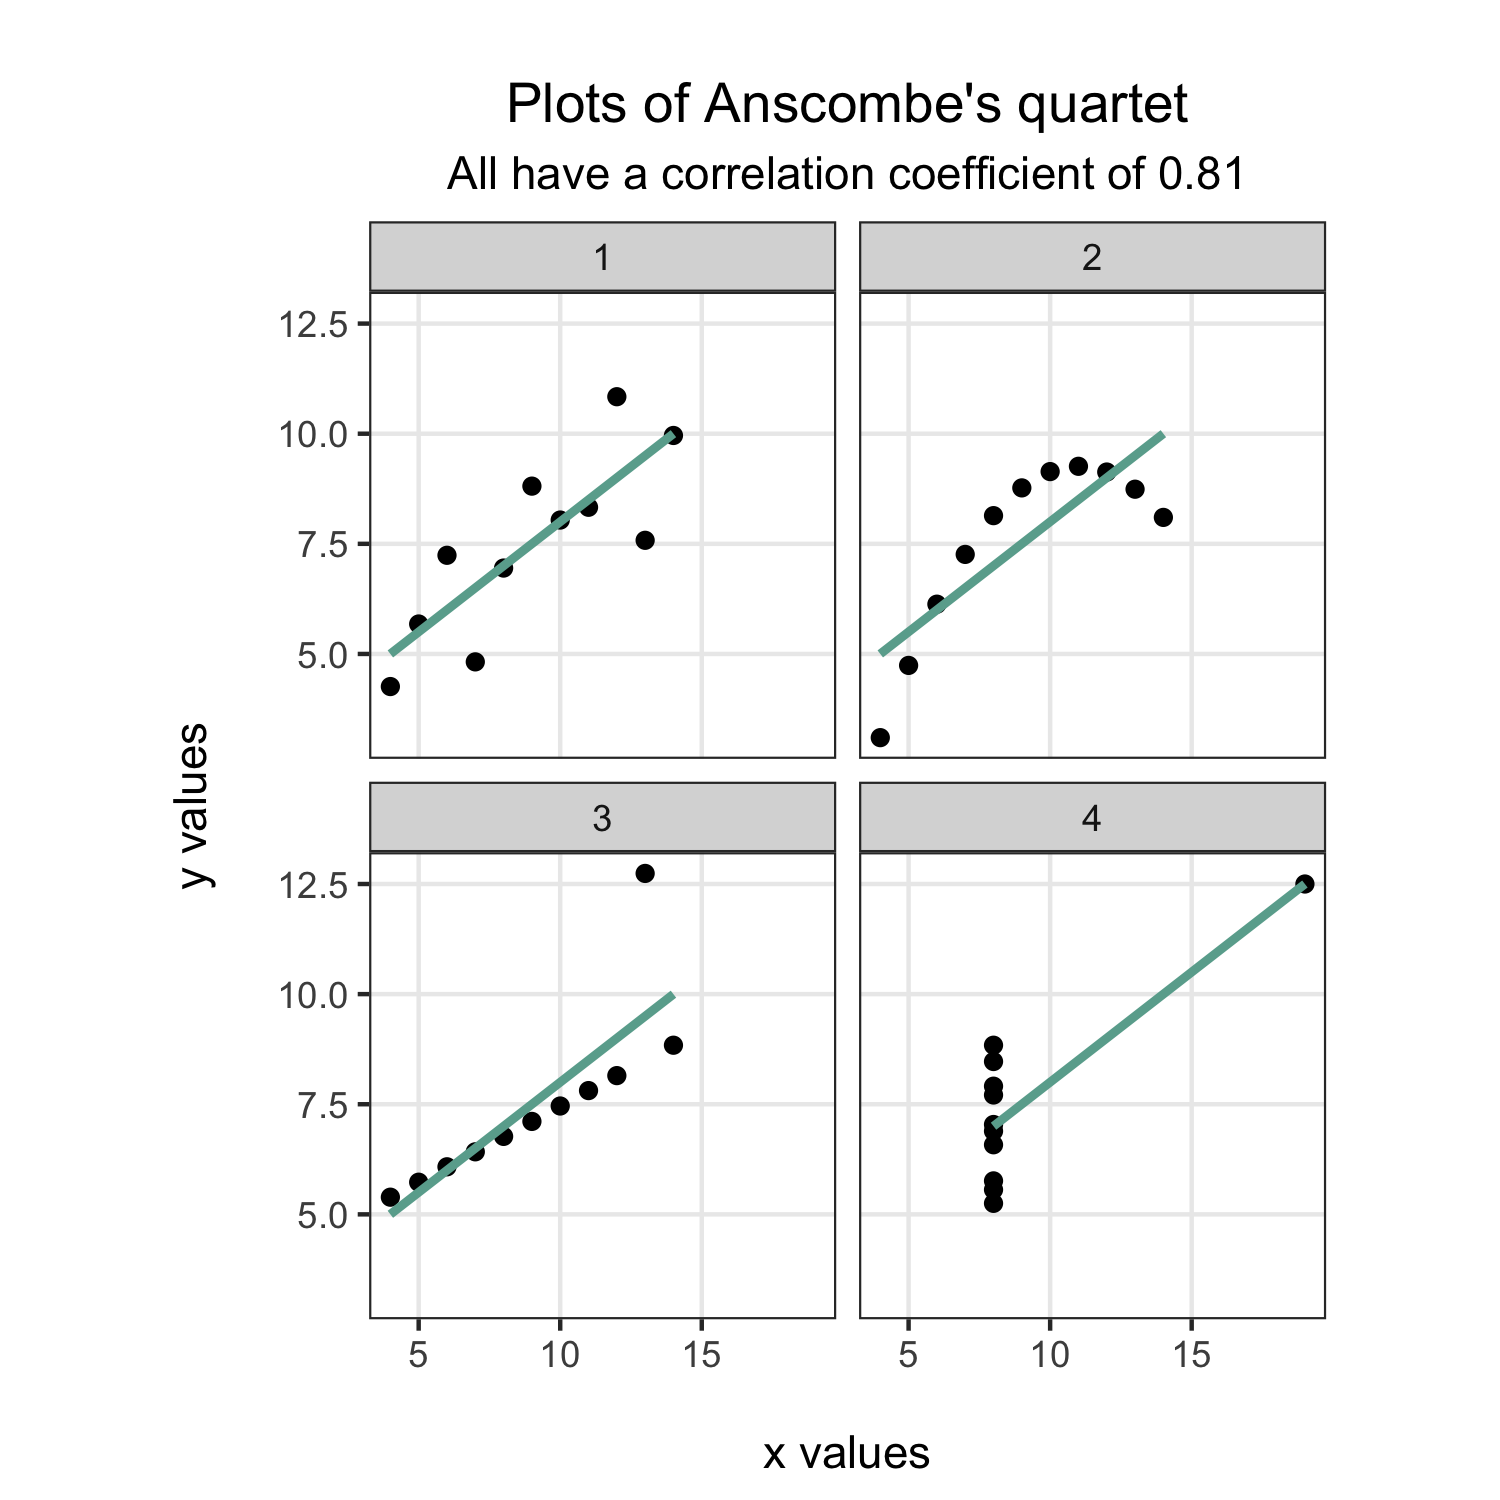
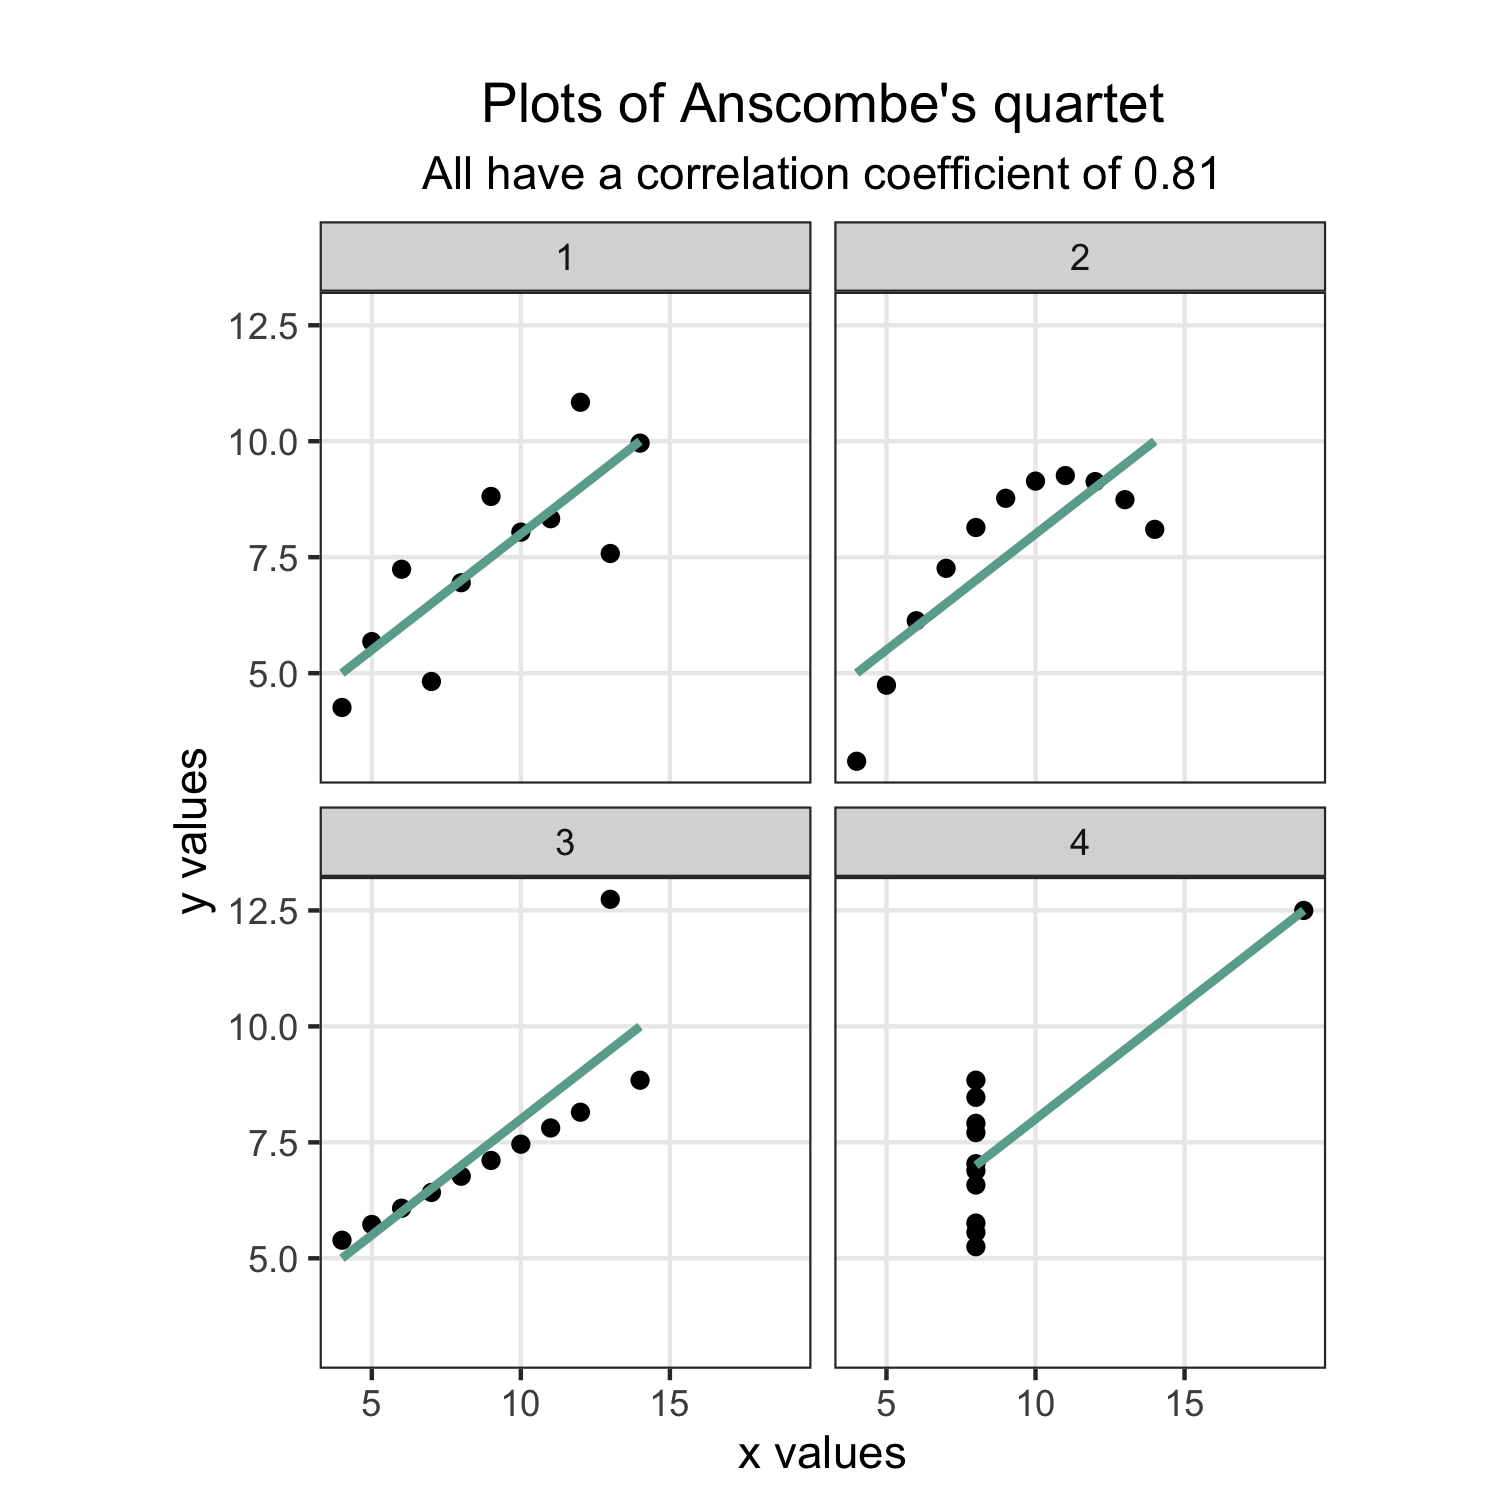
axes change

diff --git a/code/1-look-at-data.md b/code/1-look-at-data.md
@@ -127,8 +127,8 @@ anscombe_cleaned %>%
     geom_point() +
     geom_smooth(formula = "y ~ x", method = "lm", se = FALSE, colour = "#6AAB9C") +
     facet_wrap(~plot) +
-    labs(x = "\nx values",
-         y = "y values\n",
+    labs(x = "x values",
+         y = "y values",
          title = "\nPlots of Anscombe's quartet",
          subtitle = "All have a correlation coefficient of 0.81")
 ```
